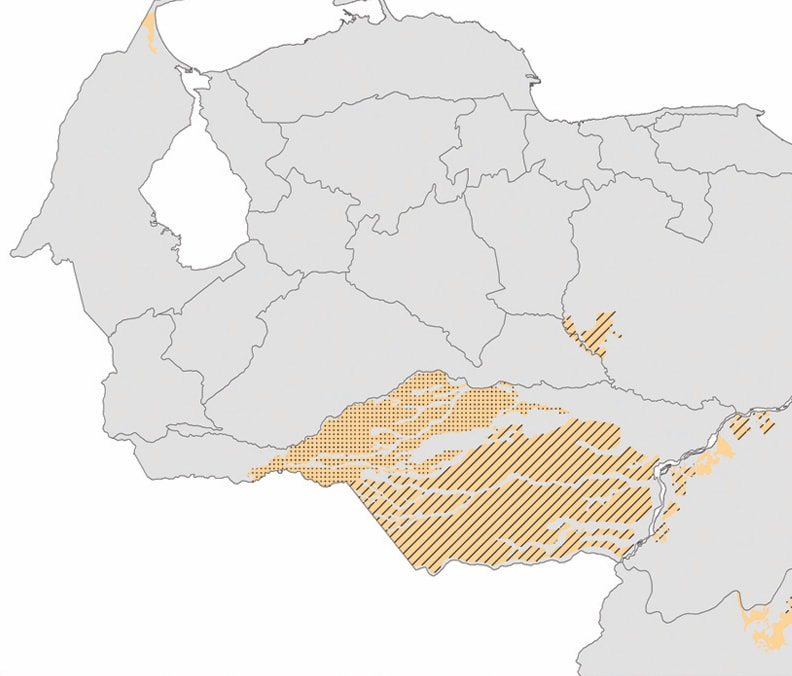
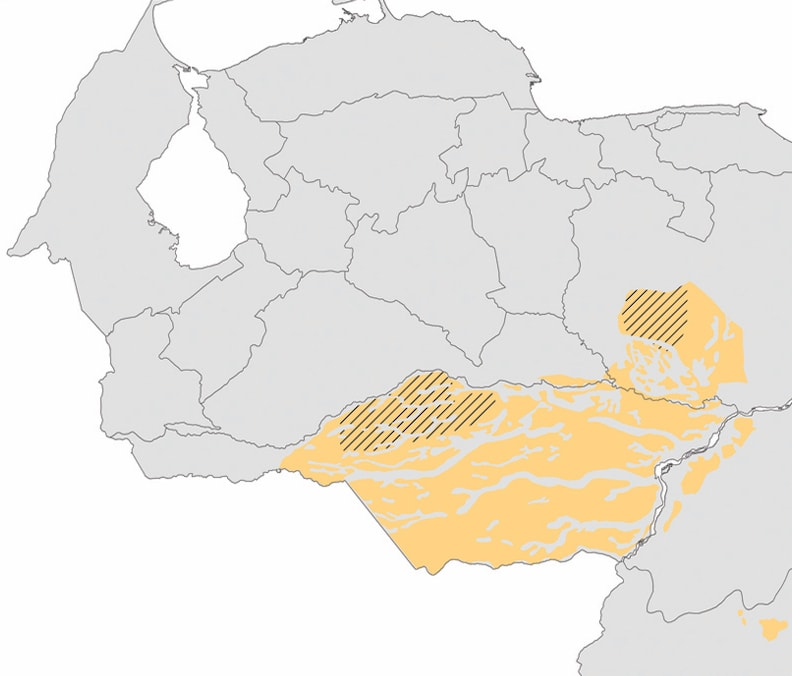
Add content

diff --git a/content/vcards/sabanas-arbustivas-y-o-arboladas/content.md b/content/vcards/sabanas-arbustivas-y-o-arboladas/content.md
@@ -1,0 +1,108 @@
+---
+title: "Sabanas arbustivas y/o arboladas"
+cardimage: "./pancarta.jpg"
+cardimagecaption: "Sabana arbolada sobre la formación Mesa, muy próxima al río Orinoco, estado Anzoátegui. <i>Giuseppe Colonnello</i>"
+plantformation: "Herbazales"
+category: "vu"
+description: "Las sabanas arbustivas y/o arboladas también se llaman sabanas de parque o sabanas de huerto (Foto 1), denominaciones basadas en la fisionomía y formas de crecimiento predominantes, no en la composición florística. En Venezuela, estas formaciones vegetales forman parte de los paisajes llaneros, destacándose en medio de las sabanas herbáceas abiertas, las cuales pueden presentar arbustos y árboles aislados. Cuando las especies leñosas de porte y distribución variable superan 75% de la cobertura, se trata de sabanas arbustivas siempre y cuando el estrato superior esté constituido por arbustos que no superen los 80 cm de altura. Son sabanas arboladas aquellas cuyo estrato superior está constituido por árboles que llegan a 8 m. Eventualmente se encuentran formaciones intermedias con presencia de varios estratos, por lo cual son llamadas sabanas arbustivas y arboladas (Huber 2007).<br><br>
+Los elementos leñosos arbustivos predominantes en estos ecosistemas son Curatella americana (chaparro) [Foto 1], Bowdichia virgilioides (alcornoque) y Byrsonima crassifolia (manteco). Estas especies poseen adaptaciones fisiológicas y morfológicas que le permiten ser subsiempreverdes y realizar el período de floración en época de sequía. Otras especies arbustivas frecuentes y típicamente sabaneras son Cochlospermum vitifolium (botuto o carnaval), Roupala montana (carne asada) y Genipa americana (caruto), entre otras (Huber 2007).<br><br>
+Las sabanas arboladas son mucho más reducidas en los llanos que las arbustivas. En el norte del estado Guárico se observan las sabanas con “matas”, islas arbóreas o bosquecillos muy característicos de entre 100 m y 200 m de diámetro rodeados de una matriz de sabana arbustiva con chaparro y manteco. En algunos casos las matas son reducidas (probablemente por causas antrópicas) a uno o pocos árboles grandes, casi siempre representados por Cassia moschata (cañafístolo), Enterolobium cyclocarpum (caro caro) o Copaifera officinalis (aceite) (Huber 2007, San José & Montes 2007). Otras sabanas arboladas muy características son las de Platycarpum orinocense (picatón) y Chaunochiton angustifolium (copito negro) en el estado Amazonas.<br><br>
+El paisaje llanero se caracteriza por la abundancia de palmas, entre las cuales algunas forman extensas colonias y representan tipos de sabanas “arboladas” muy típicas, a pesar de no ser árboles en el sentido botánico estricto. Especialmente tres especies de palmas son elementos florísticos imprescindibles en grandes extensiones de sabanas neotropicales: la palma moriche (Mauritia flexuosa) presente en muchas zonas húmedas como los morichales, especialmente en la mitad meridional de la Gran Sabana y en los bosques de galería que cruzan las sabanas llaneras y guayanesas; la palma llanera (Copernicia tectorum) [Foto 2], que forma extensos palmares en Guárico, en zonas con inundaciones temporales; y la palma corozo (Acrocomia aculeata) con su tallo fuertemente armado y que aparece solitaria o en pequeños grupos.<br><br>
+Al igual que las sabanas abiertas, las arbustivas y arboladas se encuentran en áreas con un clima biestacional, caracterizado por una temperatura media anual mayor a 24°C y un régimen pluviométrico que oscila entre 800 y 1.800 mm; las precipitaciones se distribuyen sobre dos períodos, uno lluvioso (“invierno”, entre mayo y noviembre) y otro seco (“verano”, entre diciembre y abril o mayo). Estas características hacen que predominen árboles de porte bajo o medio, perennifolios o brevideciduos, con hojas de tamaño medio escleromorfas, y con una sincronización de renovación foliar y reproducción en la época seca (Sarmiento 1990, Huber 2007)."
+distribution: "Las sabanas arbustivas y/o arboladas ocupan aproximadamente 88.334 km2, lo que equivale a 10% de la superficie de Venezuela (Figura 1).<br><br>
+Estos ecosistemas se encuentran principalmente asociados a las sabanas de banco en el estado Guárico (Tabla 1). También están presentes en Anzoátegui (Foto 3), Monagas y Delta Amacuro, con una extensión bastante continua en la vertiente sur de la cordillera de la Costa en Miranda, Aragua, Carabobo y Yaracuy (Tabla 1). Algunos remanentes aislados permanecen en Cojedes, Portuguesa y Apure (Ramia 1993).<br><br>
+Al sur del país las sabanas arbustivas y arboladas son especialmente extensas a lo largo del río Orinoco, donde se encuentran los chaparrales (sabanas con Curatella americana) más densos y mejor desarrollados de Venezuela (Figura 1). En la Gran Sabana meridional crecen los morichales sabaneros más extensos del país en las planicies aluviales del valle del río Kukenán (Foto 4). En Amazonas las sabanas arbustivas se encuentran en pequeñas manchas aisladas en la cuenca del río Ventuari, siendo el chaparro (Curatella americana) el elemento leñoso predominante; en la cuenca del río Manapiare se han encontrado sabanas arboladas de cerro dominadas por Mezia huberi, una Malpighiacea endémica de esta zona. En los alrededores de Puerto Ayacucho hasta el río Ventuari inferior se encuentran las sabanas arboladas con picatón (Platycarpum orinocense), árbol característico y emblemático de este ecosistema en el estado Amazonas."
+distributionmap: "./dist.png"
+areain1988: "112244"
+areain2010: "87767"
+formationColumn: false
+stateleveltable:
+  - state: "Amazonas"
+    areain1988: "2472"
+    areain2010: "3057"
+  - state: "Anzoátegui"
+    areain1988: "8129"
+    areain2010: "5794"
+  - state: "Apure"
+    areain1988: "900"
+    areain2010: "879"
+  - state: "Aragua"
+    areain1988: "1394"
+    areain2010: "1227"
+  - state: "Barinas"
+    areain1988: "9533"
+    areain2010: "56"
+  - state: "Bolívar"
+    areain1988: "49083"
+    areain2010: "41579"
+  - state: "Carabobo"
+    areain1988: "826"
+    areain2010: "329"
+  - state: "Cojedes"
+    areain1988: "6003"
+    areain2010: "3700"
+  - state: "Delta Amacuro"
+    areain1988: "4698"
+    areain2010: "4994"
+  - state: "Guárico"
+    areain1988: "20999"
+    areain2010: "20539"
+  - state: "Miranda"
+    areain1988: "14"
+    areain2010: "86"
+  - state: "Monagas"
+    areain1988: "6292"
+    areain2010: "4295"
+  - state: "Portuguesa"
+    areain1988: "1689"
+    areain2010: "392"
+  - state: "Sucre"
+    areain1988: "0"
+    areain2010: "840"
+  - state: "Táchira"
+    areain1988: "9"
+    areain2010: "0"
+  - state: "Trujillo"
+    areain1988: "44"
+    areain2010: "0"
+  - state: "Zulia"
+    areain1988: "159"
+    areain2010: "0"
+zonelabel: "Estado"
+criteriaused: [A3, A4, C2, "Situación por estado"]
+riskofcolapsestatelevel:
+- zone: "Amazonas"
+  threatcategories: ["-", nt, lc, nt]
+- zone: "Anzoátegui"
+  threatcategories: [en, vu, lc, en]
+- zone: "Apure"
+  threatcategories: [lc, vu, vu, vu]
+- zone: "Aragua"
+  threatcategories: [vu, vu, vu, vu]
+- zone: "Barinas"
+  threatcategories: [cr, vu, en, cr]
+- zone: "Bolívar"
+  threatcategories: [vu, nt, lc, vu]
+- zone: "Carabobo"
+  threatcategories: [cr, vu, en, cr]
+- zone: "Cojedes"
+  threatcategories: [cr, vu, lc, cr]
+- zone: "Delta Amacuro"
+  threatcategories: ["-", nt, lc, nt]
+- zone: "Guárico"
+  threatcategories: [lc, vu, lc, vu]
+- zone: "Miranda"
+  threatcategories: ["-", vu, en, en]
+- zone: "Monagas"
+  threatcategories: [en, vu, lc, en]
+- zone: "Portuguesa"
+  threatcategories: [cr, vu, en, cr]
+- zone: "Sucre"
+  threatcategories: ["-", vu, vu, vu]
+- zone: "Táchira"
+  threatcategories: [el, " ", " ", el]
+- zone: "Trujillo"
+  threatcategories: [el, " ", " ", el]
+- zone: "Zulia"
+  threatcategories: [el, " ", " ", el]
+---
